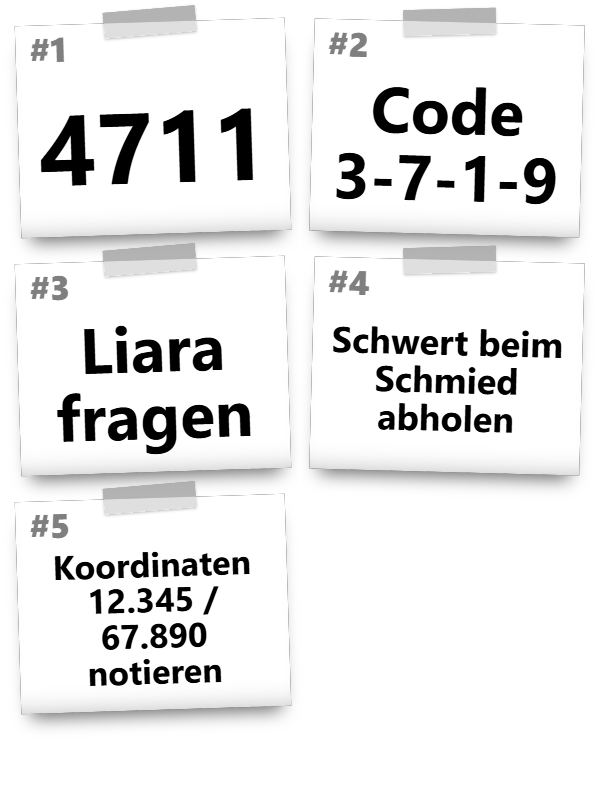
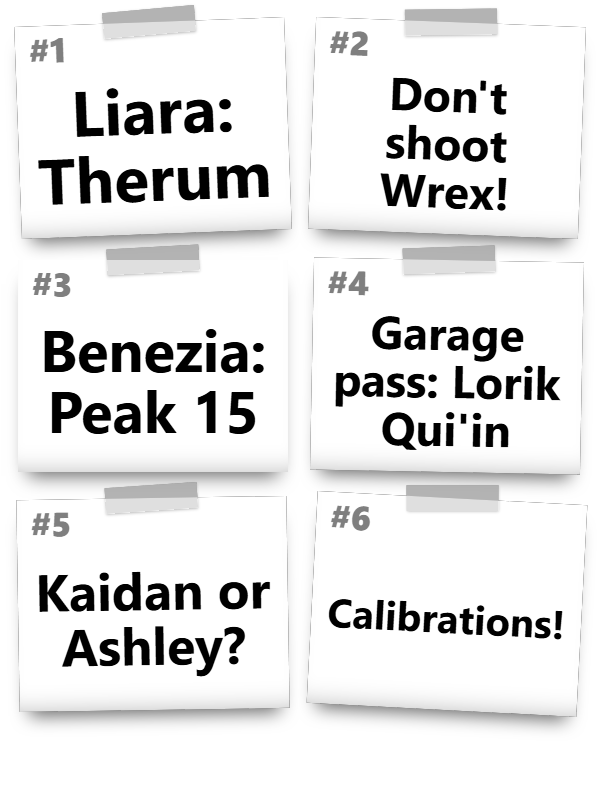
New setting layout; black-on-white picture with Mass Effect notes
layout 'vertical' keeps two post-its side by side in three rows (600 x 800),
'horizontal' puts three side by side in two rows (900 x 560). The next
command resizes the browser source in OBS; the Test trigger adds it in that
size. Import-String.md carries the export with the new Set Argument.

The black-on-white picture now shows six Mass Effect notes, rendered in OBS
with the current page.

diff --git a/Import-String.md b/Import-String.md
@@ -2,7 +2,7 @@
 ![GitHub Release Date](https://img.shields.io/github/release-date/aaskjer/OBSNotes)
 
 ```bash
[2 lines of base64/hex data omitted]
 ```
 
 ---

diff --git a/README.md b/README.md
@@ -67,7 +67,8 @@ A local HTML page that OBS shows as a browser source and that follows the notes 
 3. Connect OBS in Streamer.bot (*Stream Apps > OBS*). OBS has to run on the same PC, because the browser source
    reads a local file.
 4. In the action **OBS Notes**, right-click the trigger **Test** > *Test Trigger*. It adds the browser source
-   **OBS Notes** (600 x 800) to the scene OBS is showing. Move and scale it wherever you like.
+   **OBS Notes** (600 x 800, or 900 x 560 with `layout` set to `horizontal`) to the scene OBS is showing. Move and
+   scale it wherever you like.
 
 The Test trigger's variable `AddOBSOverlayTo` names the OBS connection: `0` is the first one in Streamer.bot.
 Running the trigger again refreshes the source, or adds it to the scene that is showing now.
@@ -96,6 +97,7 @@ Set Argument sub-actions in the action **OBS Notes**, under *Settings (Important
 | `hideAfterMinutes` | `10` | Minutes without any command until the post-its fade out. The next command brings them back. `0` = always visible. |
 | `colorfulNotes` | `True` | `False` = black text on white post-its. |
 | `showGameName` | `True` | The game name on the first post-it. |
+| `layout` | `vertical` | `vertical` = two post-its side by side in three rows (600 x 800), `horizontal` = three side by side in two rows (900 x 560). The browser source in OBS takes the new size with the next command. |
 
 Changes reach OBS with the next command or Test trigger.
 
